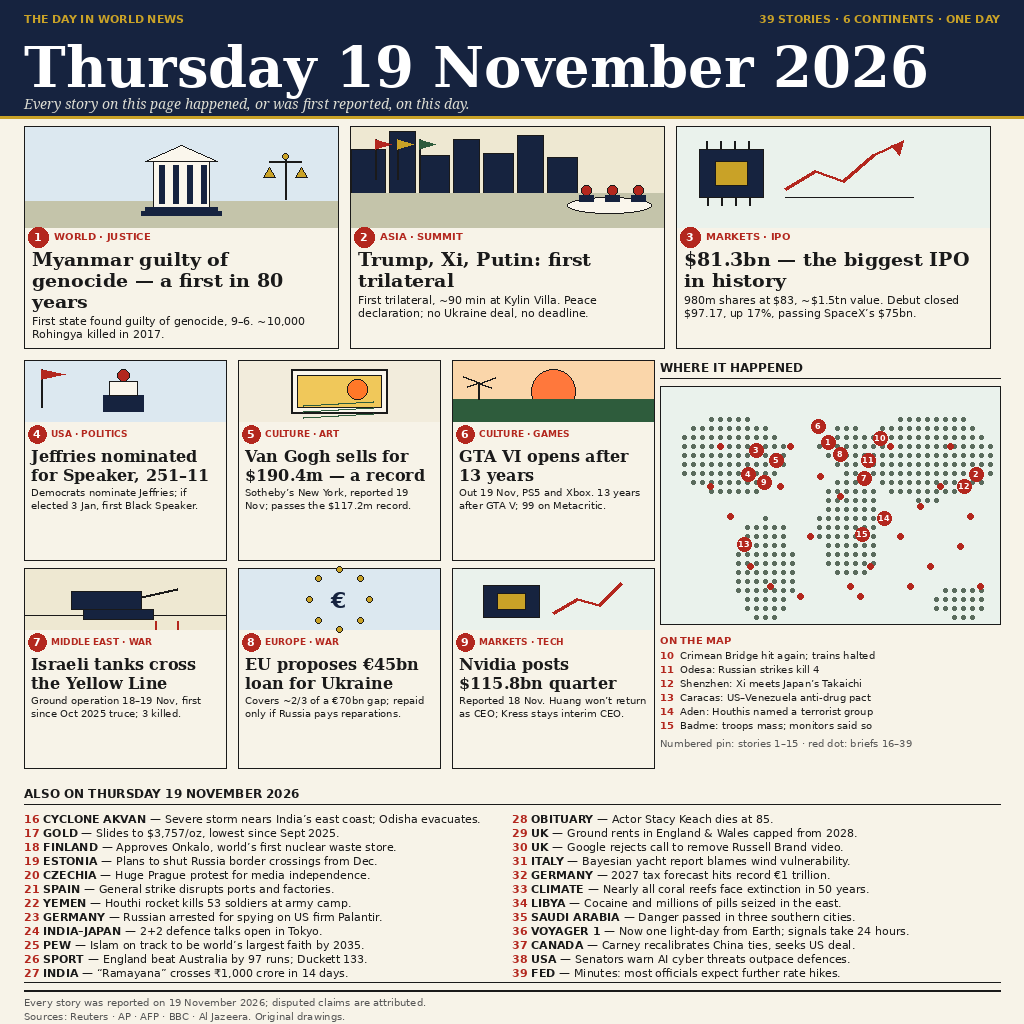
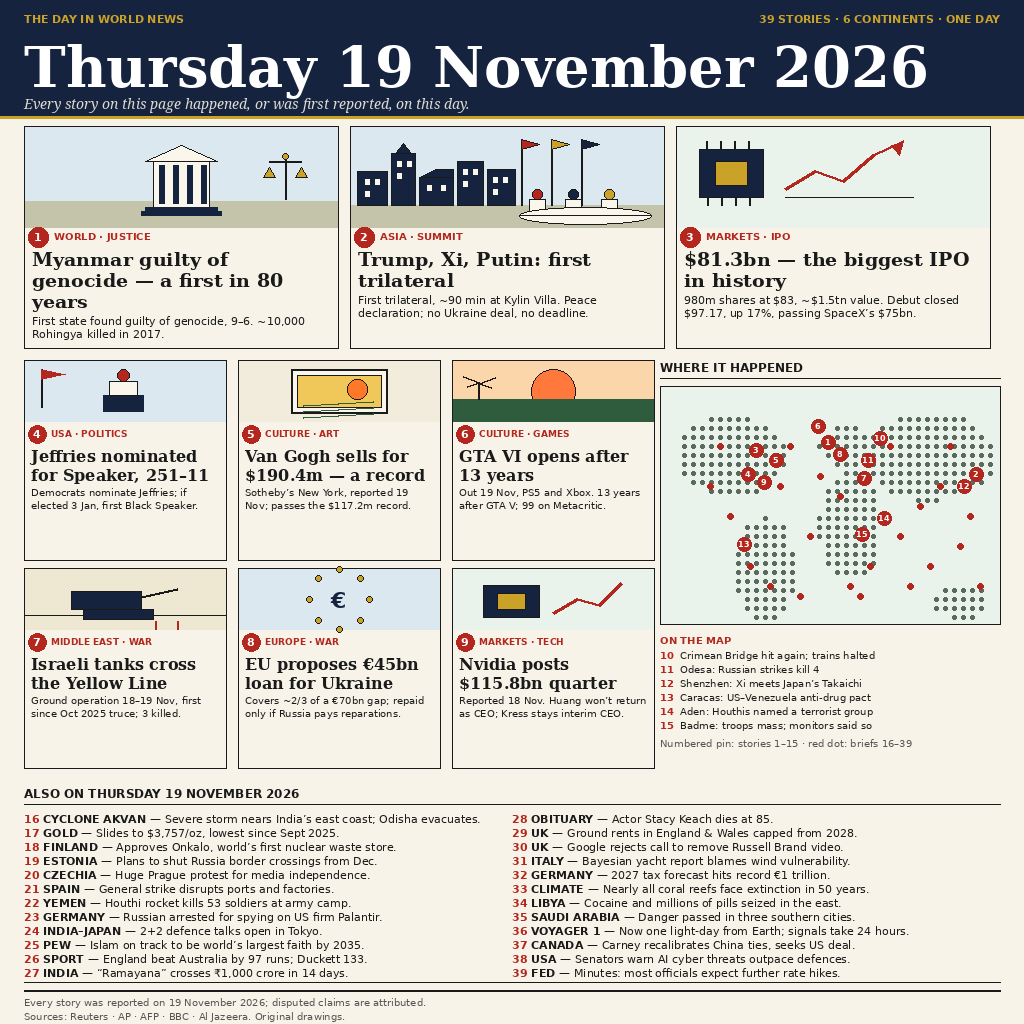
Fix hero panel 2 (APEC): replace bar-chart-like skyline with summit scene
Skyline now clustered left with windows, spire and slanted roof so it
reads as buildings; three flag poles stand in open sky; round summit
table with three seated figures is the foreground. Same panel bounds,
same palette (cream, navy, brick red, muted gold), same kicker /
headline / deck. Nothing else changed.

Changed region(s): [[0.3438, 0.125, 0.6562, 0.2188]]

diff --git a/render.py b/render.py
@@ -93,26 +93,48 @@ def ill_icj(d, x, y, w, h):
 
 
 def ill_apec(d, x, y, w, h):
-    d.rectangle([x, y, x + w, y + h], fill=SAND)
-    # skyline
-    base = y + h - 34
-    for bx, bw, bh in [(0, 34, 44), (38, 26, 62), (68, 30, 38), (102, 26, 54),
-                       (132, 30, 40), (166, 26, 58), (196, 30, 36)]:
-        d.rectangle([x + bx, base - bh, x + bx + bw, base],
+    # APEC Shenzhen trilateral: flat skyline + 3 flag poles + round summit
+    # table with seated figures. Buildings carry windows/roofs so they read
+    # as a skyline, never as bars; flags stand in open sky; the table is
+    # the foreground element with three seated figures behind it.
+    d.rectangle([x, y, x + w, y + h], fill=SKY)
+    ground = y + h - 22
+    d.rectangle([x, ground, x + w, y + h], fill=(196, 196, 170))
+    # skyline cluster, left half: varied widths/heights, navy silhouettes
+    for bx, bw, bh in [(6, 30, 34), (40, 24, 52), (68, 34, 28),
+                       (106, 26, 44), (136, 28, 36)]:
+        d.rectangle([x + bx, ground - bh, x + bx + bw, ground],
                     fill=NAVY, outline=INK)
-    d.rectangle([x, y + h - 34, x + w, y + h], fill=(196, 196, 170))
-    # three flag poles
-    for i, col in enumerate([RED, GOLD, (46, 92, 60)]):
-        px = x + 24 + i * 22
-        d.line([px, y + 12, px, y + 52], fill=INK, width=2)
-        d.polygon([(px, y + 12), (px + 16, y + 17), (px, y + 22)], fill=col)
-    # round summit table with seated figures
-    tx, ty = x + w - 96, y + h - 30
-    d.ellipse([tx, ty, tx + 84, ty + 16], fill=(250, 246, 236), outline=INK)
-    for i in range(3):
-        fx = tx + 14 + i * 26
-        d.ellipse([fx, ty - 12, fx + 10, ty - 2], fill=RED, outline=INK)
-        d.rectangle([fx - 2, ty - 2, fx + 12, ty + 4], fill=NAVY)
+    # spire on the tallest tower
+    d.polygon([(x + 44, ground - 52), (x + 60, ground - 52),
+               (x + 52, ground - 62)], fill=NAVY, outline=INK)
+    # slanted roof on the low wide block
+    d.polygon([(x + 68, ground - 28), (x + 102, ground - 28),
+               (x + 102, ground - 36), (x + 85, ground - 36)],
+              fill=NAVY, outline=INK)
+    # windows: small cream panes so the blocks read as buildings
+    for wx, wy in [(14, ground - 26), (24, ground - 26), (14, ground - 14),
+                   (46, ground - 44), (56, ground - 44), (46, ground - 32),
+                   (76, ground - 20), (90, ground - 20),
+                   (112, ground - 36), (122, ground - 36),
+                   (112, ground - 24), (142, ground - 28),
+                   (152, ground - 28), (142, ground - 16)]:
+        d.rectangle([x + wx, wy, x + wx + 4, wy + 5], fill=(250, 246, 236))
+    # three flag poles in the open sky, right of the skyline
+    for i, col in enumerate([RED, GOLD, NAVY]):
+        px = x + 170 + i * 30
+        d.line([px, y + 12, px, ground], fill=INK, width=2)
+        d.polygon([(px, y + 12), (px + 18, y + 17), (px, y + 22)], fill=col,
+                  outline=INK)
+    # round summit table with three seated figures (dots/blocks, no faces)
+    for i, col in enumerate([RED, NAVY, GOLD]):
+        cx = x + 186 + i * 36
+        d.ellipse([cx - 5, y + 62, cx + 5, y + 72], fill=col, outline=INK)
+        d.rectangle([cx - 8, y + 72, cx + 8, y + 84],
+                    fill=(250, 246, 236), outline=INK)
+    d.ellipse([x + 168, y + 80, x + 300, y + 97],
+              fill=(250, 246, 236), outline=INK)
+    d.line([x + 168, y + 88, x + 300, y + 88], fill=INK, width=1)
 
 
 def ill_anthropic(d, x, y, w, h):
